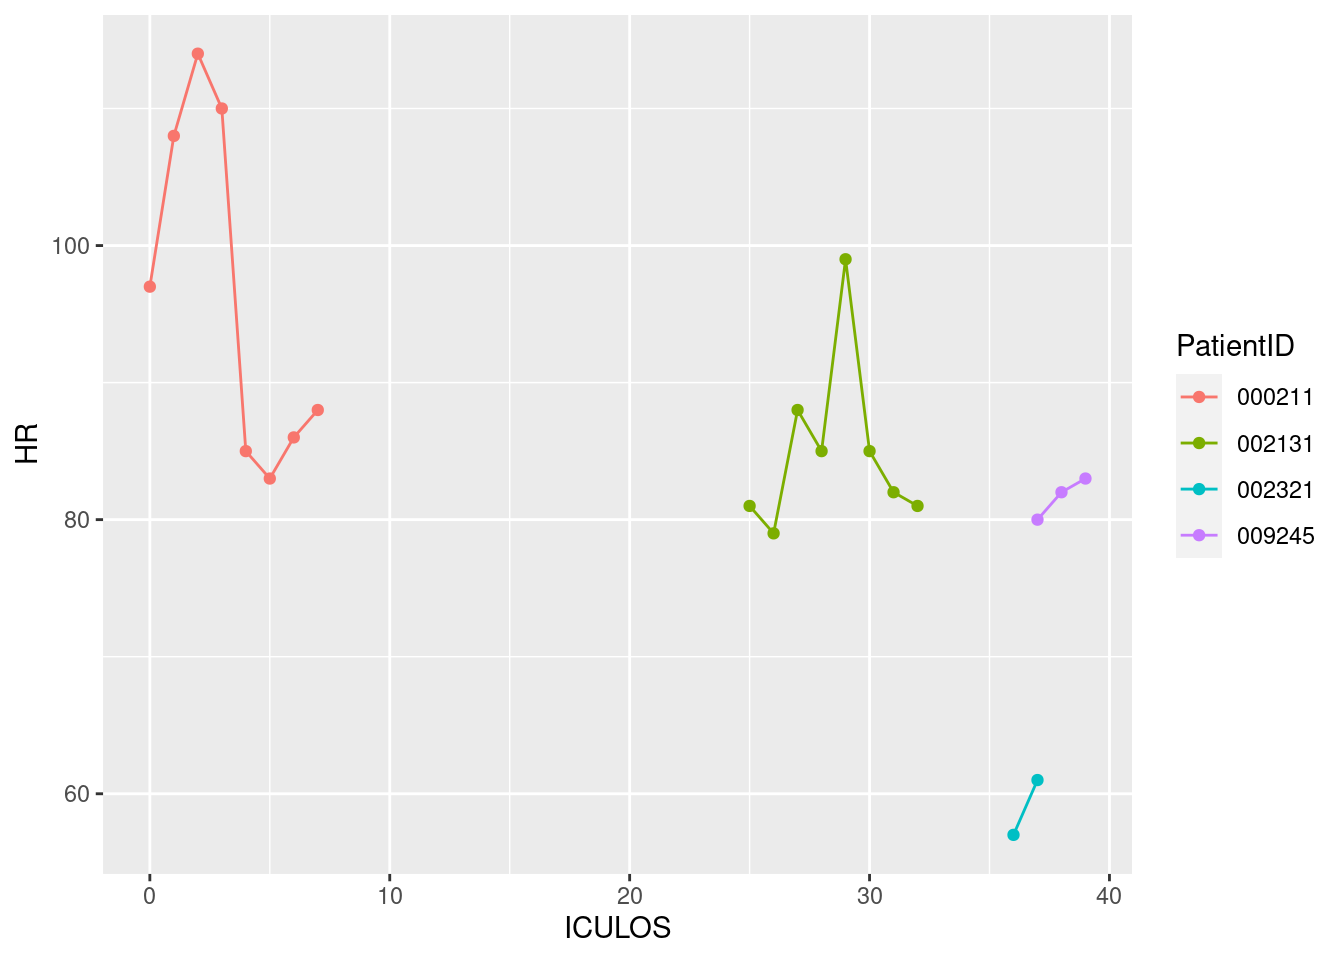
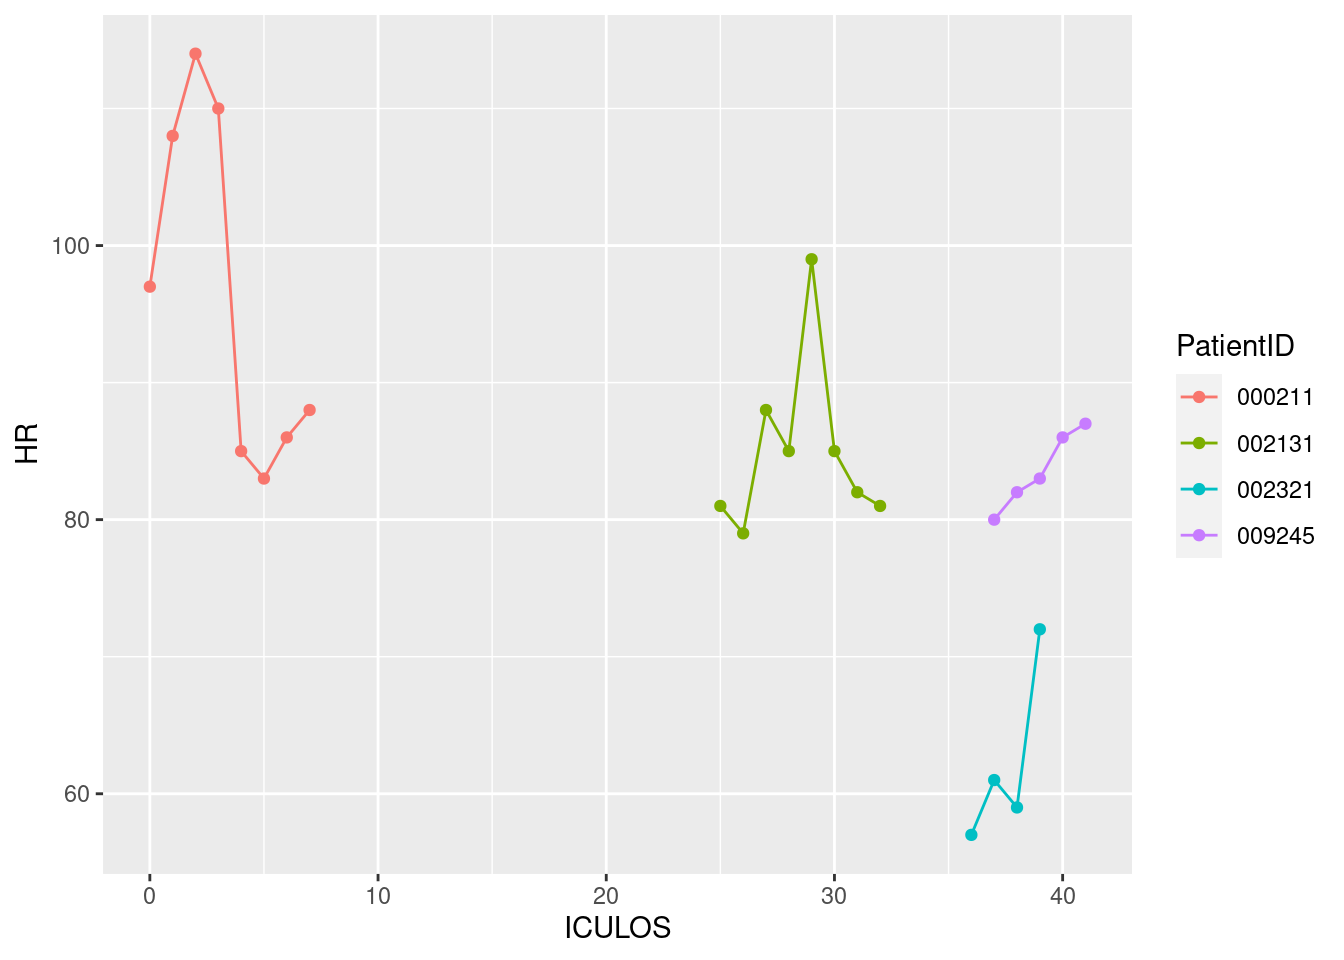
Updated report

diff --git a/a7qmd.html b/a7qmd.html
@@ -80,7 +80,7 @@ ul.task-list li input[type="checkbox"] {
 <h2 class="anchored" data-anchor-id="current-date-and-time">Current date and time</h2>
 <div class="cell">
 <div class="cell-output cell-output-stdout">
-<pre><code>[1] "2023-04-11 11:13:56 UTC"</code></pre>
+<pre><code>[1] "2023-04-11 12:30:51 UTC"</code></pre>
 </div>
 </div>
 </section>
@@ -112,13 +112,13 @@ ul.task-list li input[type="checkbox"] {
 </tr>
 <tr class="odd">
 <td style="text-align: left;">002321</td>
-<td style="text-align: right;">61</td>
+<td style="text-align: right;">72</td>
 <td style="text-align: right;">NA</td>
-<td style="text-align: right;">12</td>
+<td style="text-align: right;">13</td>
 </tr>
 <tr class="even">
 <td style="text-align: left;">009245</td>
-<td style="text-align: right;">83</td>
+<td style="text-align: right;">87</td>
 <td style="text-align: right;">NA</td>
 <td style="text-align: right;">18</td>
 </tr>
@@ -193,15 +193,15 @@ ul.task-list li input[type="checkbox"] {
 </tr>
 <tr class="odd">
 <td style="text-align: left;">000878</td>
-<td style="text-align: right;">6</td>
-<td style="text-align: right;">0.00</td>
 <td style="text-align: right;">1</td>
+<td style="text-align: right;">0.00</td>
+<td style="text-align: right;">0</td>
 </tr>
 <tr class="even">
 <td style="text-align: left;">000939</td>
-<td style="text-align: right;">13</td>
+<td style="text-align: right;">-8</td>
 <td style="text-align: right;">NA</td>
-<td style="text-align: right;">-5</td>
+<td style="text-align: right;">-2</td>
 </tr>
 <tr class="odd">
 <td style="text-align: left;">001080</td>
@@ -247,21 +247,21 @@ ul.task-list li input[type="checkbox"] {
 </tr>
 <tr class="even">
 <td style="text-align: left;">002248</td>
-<td style="text-align: right;">-1</td>
+<td style="text-align: right;">-2</td>
 <td style="text-align: right;">NA</td>
 <td style="text-align: right;">NA</td>
 </tr>
 <tr class="odd">
 <td style="text-align: left;">002321</td>
-<td style="text-align: right;">4</td>
+<td style="text-align: right;">13</td>
 <td style="text-align: right;">NA</td>
 <td style="text-align: right;">1</td>
 </tr>
 <tr class="even">
 <td style="text-align: left;">002434</td>
-<td style="text-align: right;">0</td>
+<td style="text-align: right;">-1</td>
 <td style="text-align: right;">NA</td>
-<td style="text-align: right;">0</td>
+<td style="text-align: right;">2</td>
 </tr>
 <tr class="odd">
 <td style="text-align: left;">002572</td>
@@ -271,9 +271,9 @@ ul.task-list li input[type="checkbox"] {
 </tr>
 <tr class="even">
 <td style="text-align: left;">002738</td>
-<td style="text-align: right;">29</td>
+<td style="text-align: right;">-30</td>
 <td style="text-align: right;">NA</td>
-<td style="text-align: right;">0</td>
+<td style="text-align: right;">4</td>
 </tr>
 <tr class="odd">
 <td style="text-align: left;">003083</td>
@@ -283,9 +283,9 @@ ul.task-list li input[type="checkbox"] {
 </tr>
 <tr class="even">
 <td style="text-align: left;">003684</td>
-<td style="text-align: right;">10</td>
+<td style="text-align: right;">2</td>
 <td style="text-align: right;">NA</td>
-<td style="text-align: right;">1</td>
+<td style="text-align: right;">-3</td>
 </tr>
 <tr class="odd">
 <td style="text-align: left;">003690</td>
@@ -307,21 +307,21 @@ ul.task-list li input[type="checkbox"] {
 </tr>
 <tr class="even">
 <td style="text-align: left;">003777</td>
-<td style="text-align: right;">-4</td>
-<td style="text-align: right;">NA</td>
-<td style="text-align: right;">-2</td>
-</tr>
-<tr class="odd">
-<td style="text-align: left;">004131</td>
-<td style="text-align: right;">-6</td>
+<td style="text-align: right;">0</td>
 <td style="text-align: right;">NA</td>
 <td style="text-align: right;">0</td>
 </tr>
+<tr class="odd">
+<td style="text-align: left;">004131</td>
+<td style="text-align: right;">1</td>
+<td style="text-align: right;">NA</td>
+<td style="text-align: right;">4</td>
+</tr>
 <tr class="even">
 <td style="text-align: left;">004389</td>
-<td style="text-align: right;">-2</td>
+<td style="text-align: right;">11</td>
 <td style="text-align: right;">NA</td>
-<td style="text-align: right;">-8</td>
+<td style="text-align: right;">7</td>
 </tr>
 <tr class="odd">
 <td style="text-align: left;">004476</td>
@@ -361,15 +361,15 @@ ul.task-list li input[type="checkbox"] {
 </tr>
 <tr class="odd">
 <td style="text-align: left;">006938</td>
-<td style="text-align: right;">-9</td>
-<td style="text-align: right;">-0.30</td>
-<td style="text-align: right;">NA</td>
+<td style="text-align: right;">-4</td>
+<td style="text-align: right;">0.00</td>
+<td style="text-align: right;">5</td>
 </tr>
 <tr class="even">
 <td style="text-align: left;">007154</td>
-<td style="text-align: right;">-3</td>
-<td style="text-align: right;">NA</td>
 <td style="text-align: right;">-1</td>
+<td style="text-align: right;">NA</td>
+<td style="text-align: right;">2</td>
 </tr>
 <tr class="odd">
 <td style="text-align: left;">007365</td>
@@ -379,9 +379,9 @@ ul.task-list li input[type="checkbox"] {
 </tr>
 <tr class="even">
 <td style="text-align: left;">008070</td>
-<td style="text-align: right;">-1</td>
 <td style="text-align: right;">NA</td>
-<td style="text-align: right;">0</td>
+<td style="text-align: right;">NA</td>
+<td style="text-align: right;">NA</td>
 </tr>
 <tr class="odd">
 <td style="text-align: left;">008496</td>
@@ -409,21 +409,21 @@ ul.task-list li input[type="checkbox"] {
 </tr>
 <tr class="odd">
 <td style="text-align: left;">008907</td>
-<td style="text-align: right;">-8</td>
+<td style="text-align: right;">2</td>
 <td style="text-align: right;">NA</td>
-<td style="text-align: right;">0</td>
+<td style="text-align: right;">1</td>
 </tr>
 <tr class="even">
 <td style="text-align: left;">008916</td>
-<td style="text-align: right;">-4</td>
 <td style="text-align: right;">NA</td>
-<td style="text-align: right;">0</td>
+<td style="text-align: right;">NA</td>
+<td style="text-align: right;">NA</td>
 </tr>
 <tr class="odd">
 <td style="text-align: left;">009179</td>
-<td style="text-align: right;">-2</td>
+<td style="text-align: right;">7</td>
 <td style="text-align: right;">NA</td>
-<td style="text-align: right;">-4</td>
+<td style="text-align: right;">4</td>
 </tr>
 <tr class="even">
 <td style="text-align: left;">009185</td>
